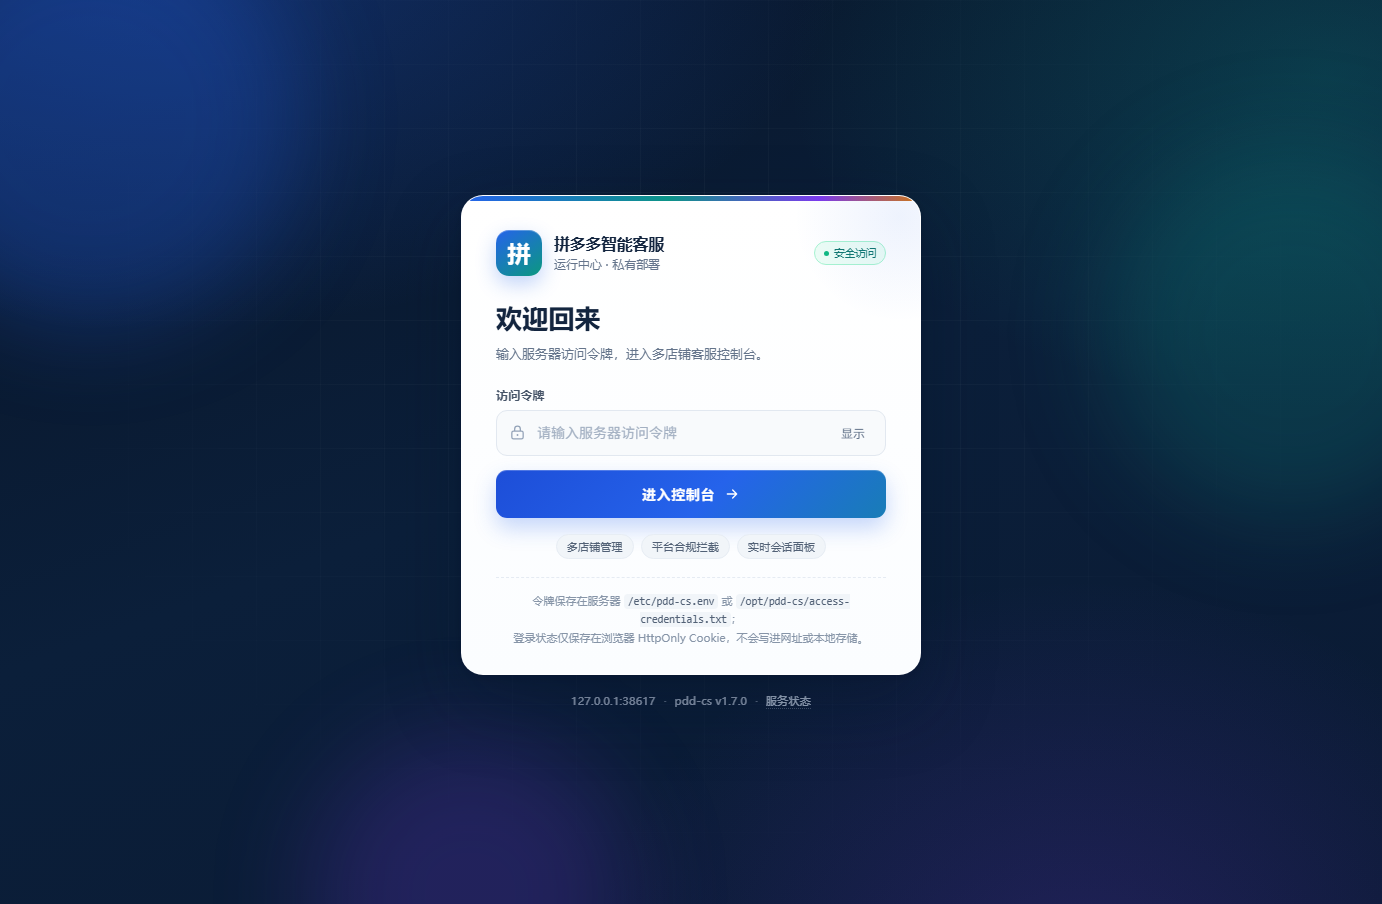
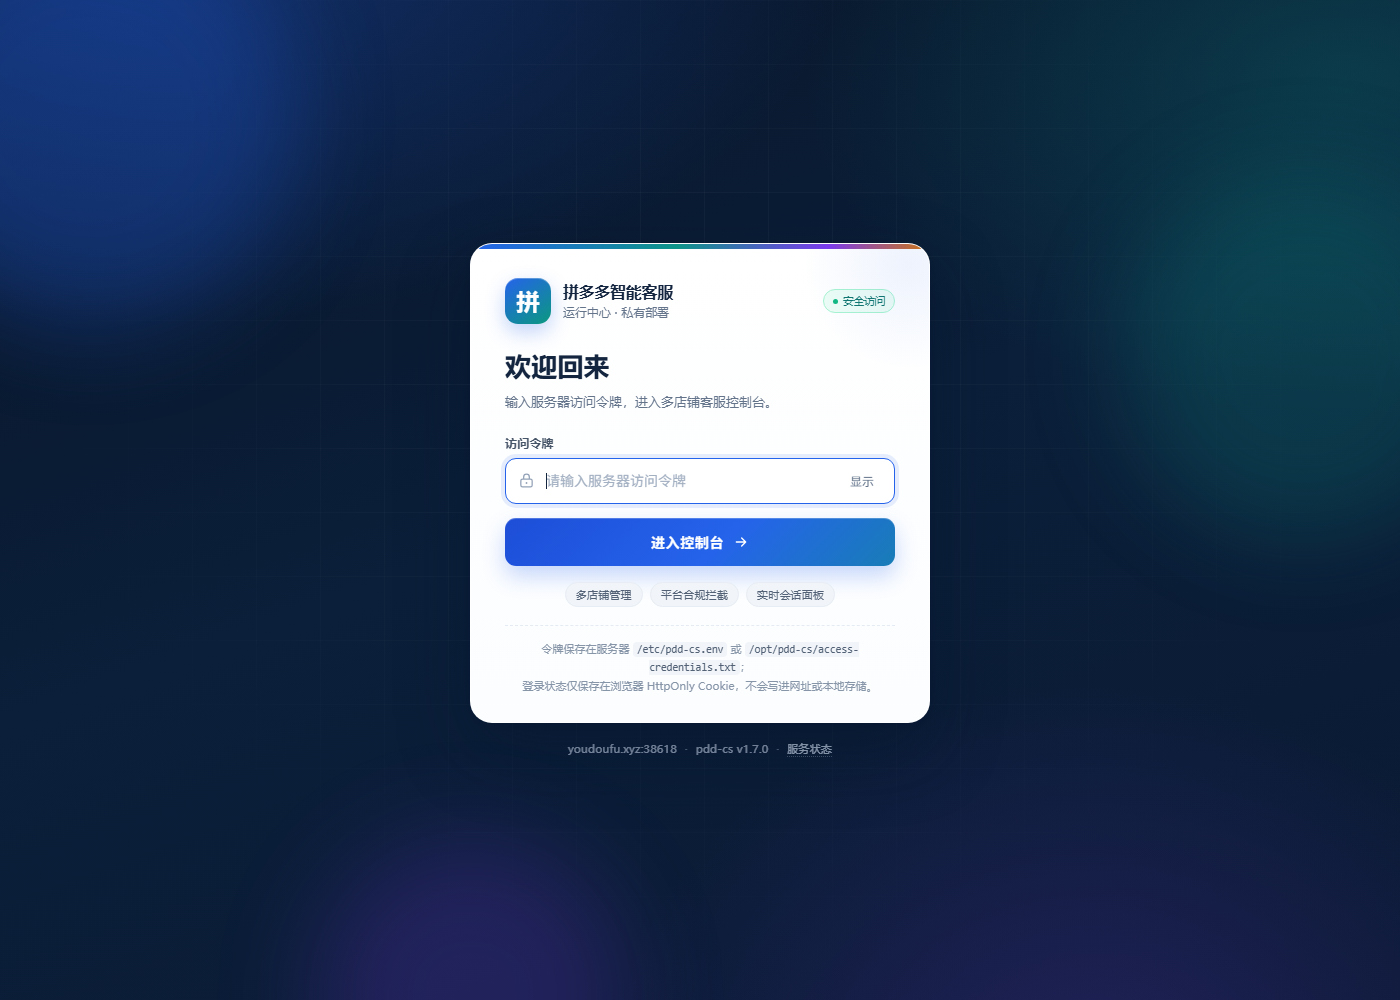
fix: 无图形界面服务器引导用登录态导入；更新线上登录页截图

Changed region(s): [[0.3111, 0.2168, 0.6845, 0.8053]]

diff --git a/pdd_cs/web/dashboard.html b/pdd_cs/web/dashboard.html
@@ -1096,9 +1096,13 @@ function renderShopCards(payload) {
   }
   const noChromeNotice = cap.browser_login ? '' :
     '<div class="setup-banner" style="grid-column:1/-1;margin:0 0 4px">' +
-    '<div class="txt"><strong>当前电脑没有检测到 Chrome。</strong> 扫码登录不可用：' +
-    '可以点右侧「运行环境」一键下载 Chrome，也可以在本机登录后「导出登录态」到服务器「导入登录态」，' +
-    '或直接粘贴 Cookie。</div></div>';
+    '<div class="txt"><strong>扫码登录暂不可用。</strong> ' +
+    (cap.chrome_found
+      ? '已检测到 Chrome，但当前没有图形界面（DISPLAY），无法弹出扫码窗口；'
+      : '当前环境没有检测到 Chrome；') +
+    '推荐在本机登录后「导出登录态」→ 服务器「导入登录态」，也可以直接粘贴 Cookie' +
+    (cap.chrome_found ? '。' : '，或在右侧「运行环境」安装 Chrome（有桌面时）。') +
+    '</div></div>';
   box.innerHTML = noChromeNotice + shops.map(shop => {
     const runtime = shop.runtime || {};
     const channel = runtime.channel || {};
@@ -1195,11 +1199,17 @@ function renderChromeCard(cap) {
     installBtn.style.display = 'none';
   } else {
     state.textContent = '未检测到';
-    help.textContent = '当前电脑没有检测到 Chrome。可以一键下载（约 150MB，无需 root），' +
-      '或在本机登录后「导出登录态」到服务器「导入登录态」。';
-    installBtn.style.display = cap.install_supported ? '' : 'none';
-    installBtn.disabled = false;
-    installBtn.textContent = '一键下载 Chrome';
+    if (cap.display_available === false) {
+      help.textContent = '当前服务器没有图形界面（DISPLAY），即使安装 Chrome 也无法弹窗扫码。' +
+        '推荐在本机登录后「导出登录态」，再到服务器「导入登录态」；也可以直接粘贴 Cookie。';
+      installBtn.style.display = 'none';
+    } else {
+      help.textContent = '当前电脑没有检测到 Chrome。可以一键下载（约 150MB，无需 root），' +
+        '或在本机登录后「导出登录态」到服务器「导入登录态」。';
+      installBtn.style.display = cap.install_supported ? '' : 'none';
+      installBtn.disabled = false;
+      installBtn.textContent = '一键下载 Chrome';
+    }
   }
   if (cap.browser_login && progress) progress.style.display = 'none';
 }
